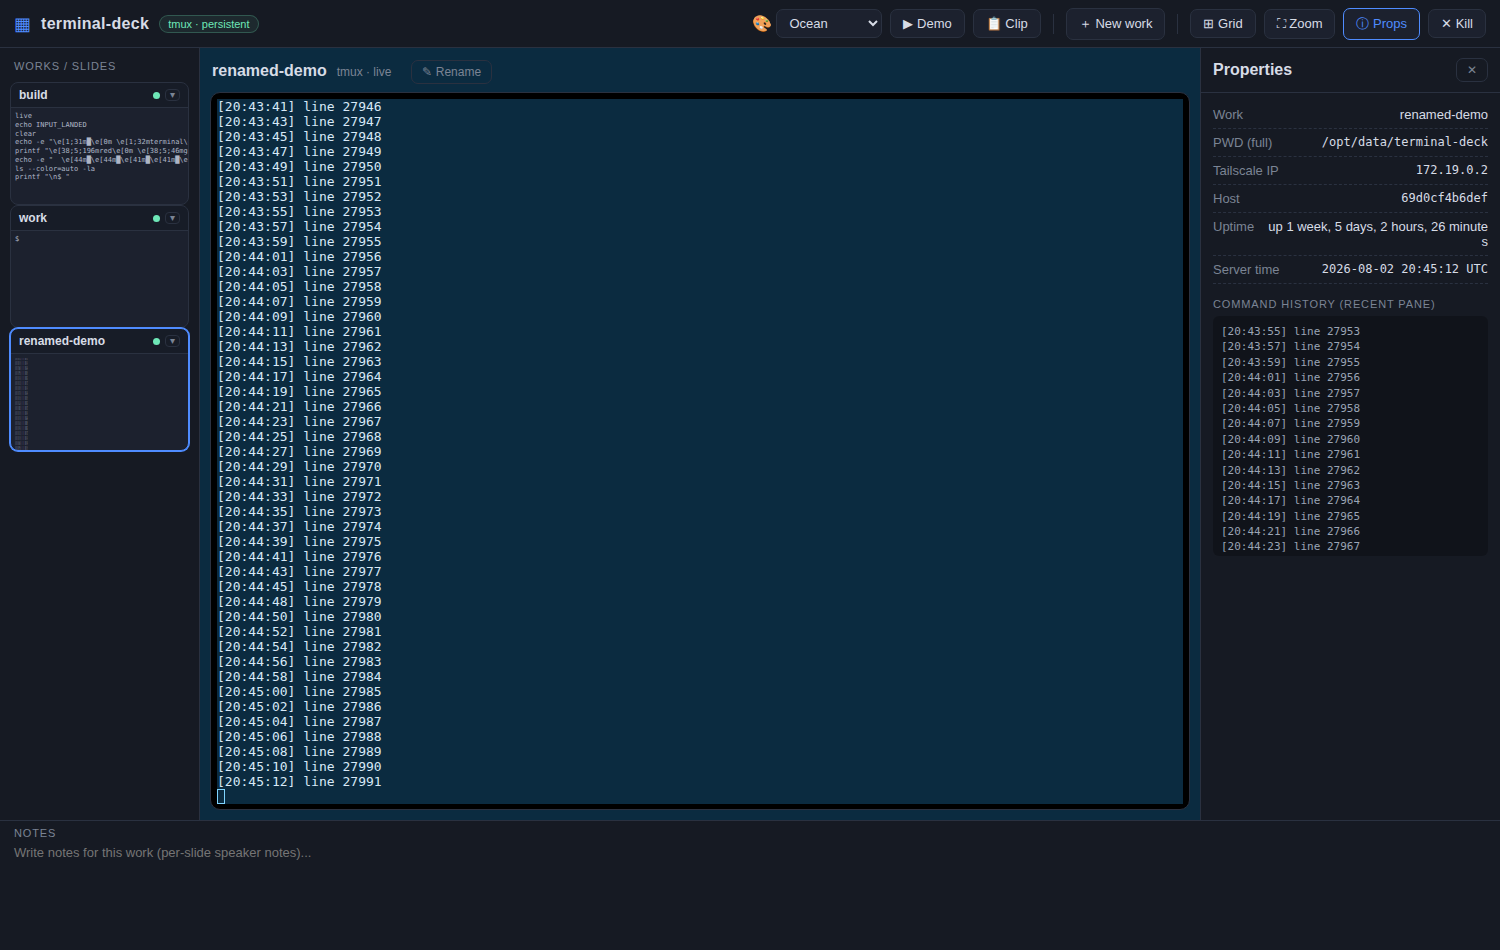
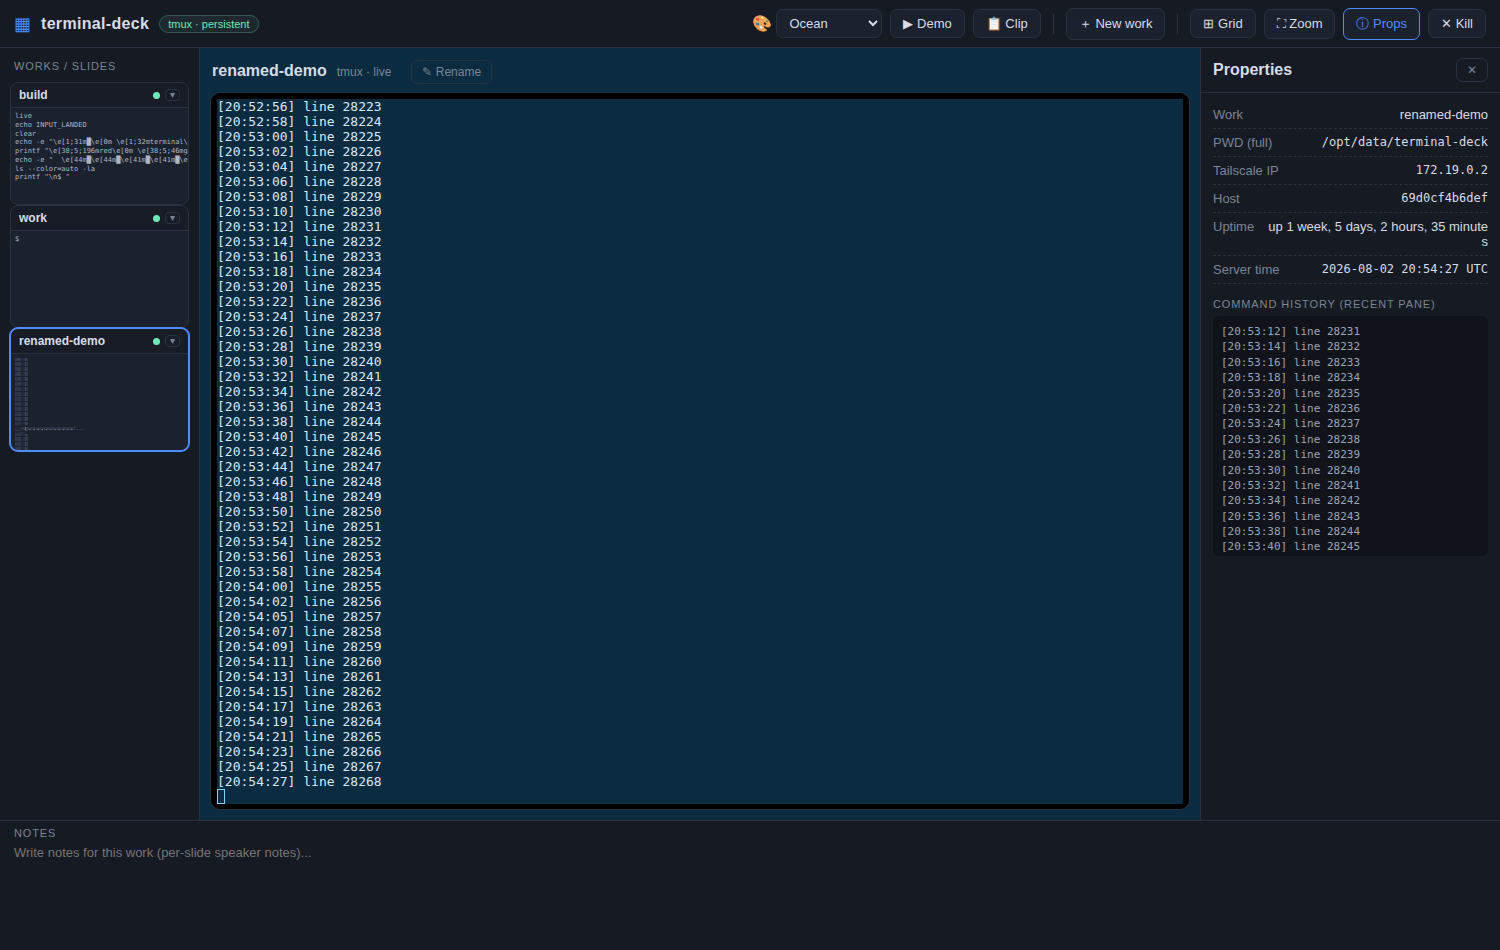
fix(ui): thumbnail font-shrink broke in Chrome (min-font-size clamp)
Chrome enforces a user minimum font size, clamping tiny font-size values and
overflowing the card (content clipped to the top), while Safari renders them
fine. renderThumb now renders at the normal 7px and shrinks with
transform: scale() — transforms are immune to the min-font-size setting and
scale both axes, keeping the terminal's aspect ratio as a true miniature.

Verified: 63-line terminal -> scale(0.157), visual height 86.6px fits the 96px
card; full UI harness passes.

diff --git a/public/app.js b/public/app.js
@@ -290,22 +290,42 @@ function sanitizeSnap(s) {
 }
 
 // Render a FULL terminal thumbnail: the entire captured content (visible screen
-// + scrollback) with the font shrunk to fit the card. No truncation — the card
-// reads like a zoomed-out screenshot of the whole terminal.
+// + scrollback) scaled down to fit the card — a true zoomed-out screenshot.
+//
+// Cross-browser note: Chrome enforces a minimum font size (user setting) and
+// would clamp tiny font-size values, overflowing the card, while Safari renders
+// them fine. So we render at the normal font and shrink with transform: scale()
+// instead — transforms are NOT affected by the min-font-size setting, and they
+// scale both axes so the miniature keeps the terminal's aspect ratio.
 function renderThumb(card, raw) {
-  const el = card.preview;
+  const outer = card.preview;
+  let inner = outer.__inner;
+  if (!inner) {
+    inner = document.createElement('div');
+    inner.style.whiteSpace = 'pre';
+    inner.style.transformOrigin = 'top left';
+    outer.appendChild(inner);
+    outer.__inner = inner;
+  }
   const clean = sanitizeSnap(raw).replace(/\s+$/, '');
-  el.textContent = clean;
-  // fit font size so ALL lines fit the card height — no truncation. The user
-  // explicitly accepts tiny fonts for a true full-screen thumbnail.
-  // account for the preview's 4px top+bottom padding: usable height = h - 8
-  const h = (el.clientHeight || 96) - 8;
+  inner.textContent = clean;
+
+  // usable card height = box minus the preview's 4px top+bottom padding
+  const h = (outer.clientHeight || 96) - 8;
   const lineCount = clean.split('\n').length;
   const BASE = 7; // px, the normal thumbnail font
-  const MIN = 1;  // px, hard readability floor
+  const MIN = 1;  // px equivalent, hard readability floor
   const lineH = 1.25; // CSS line-height on .card-preview
   const fit = Math.floor((h / (lineCount * lineH)) * 10) / 10;
-  el.style.fontSize = Math.max(MIN, Math.min(BASE, fit)) + 'px';
+  const fs = Math.max(MIN, Math.min(BASE, fit));
+
+  if (fs < BASE) {
+    inner.style.fontSize = BASE + 'px';
+    inner.style.transform = 'scale(' + (fs / BASE) + ')';
+  } else {
+    inner.style.fontSize = fs + 'px';
+    inner.style.transform = 'none';
+  }
 }
 
 async function pollSnapshot(name) {
